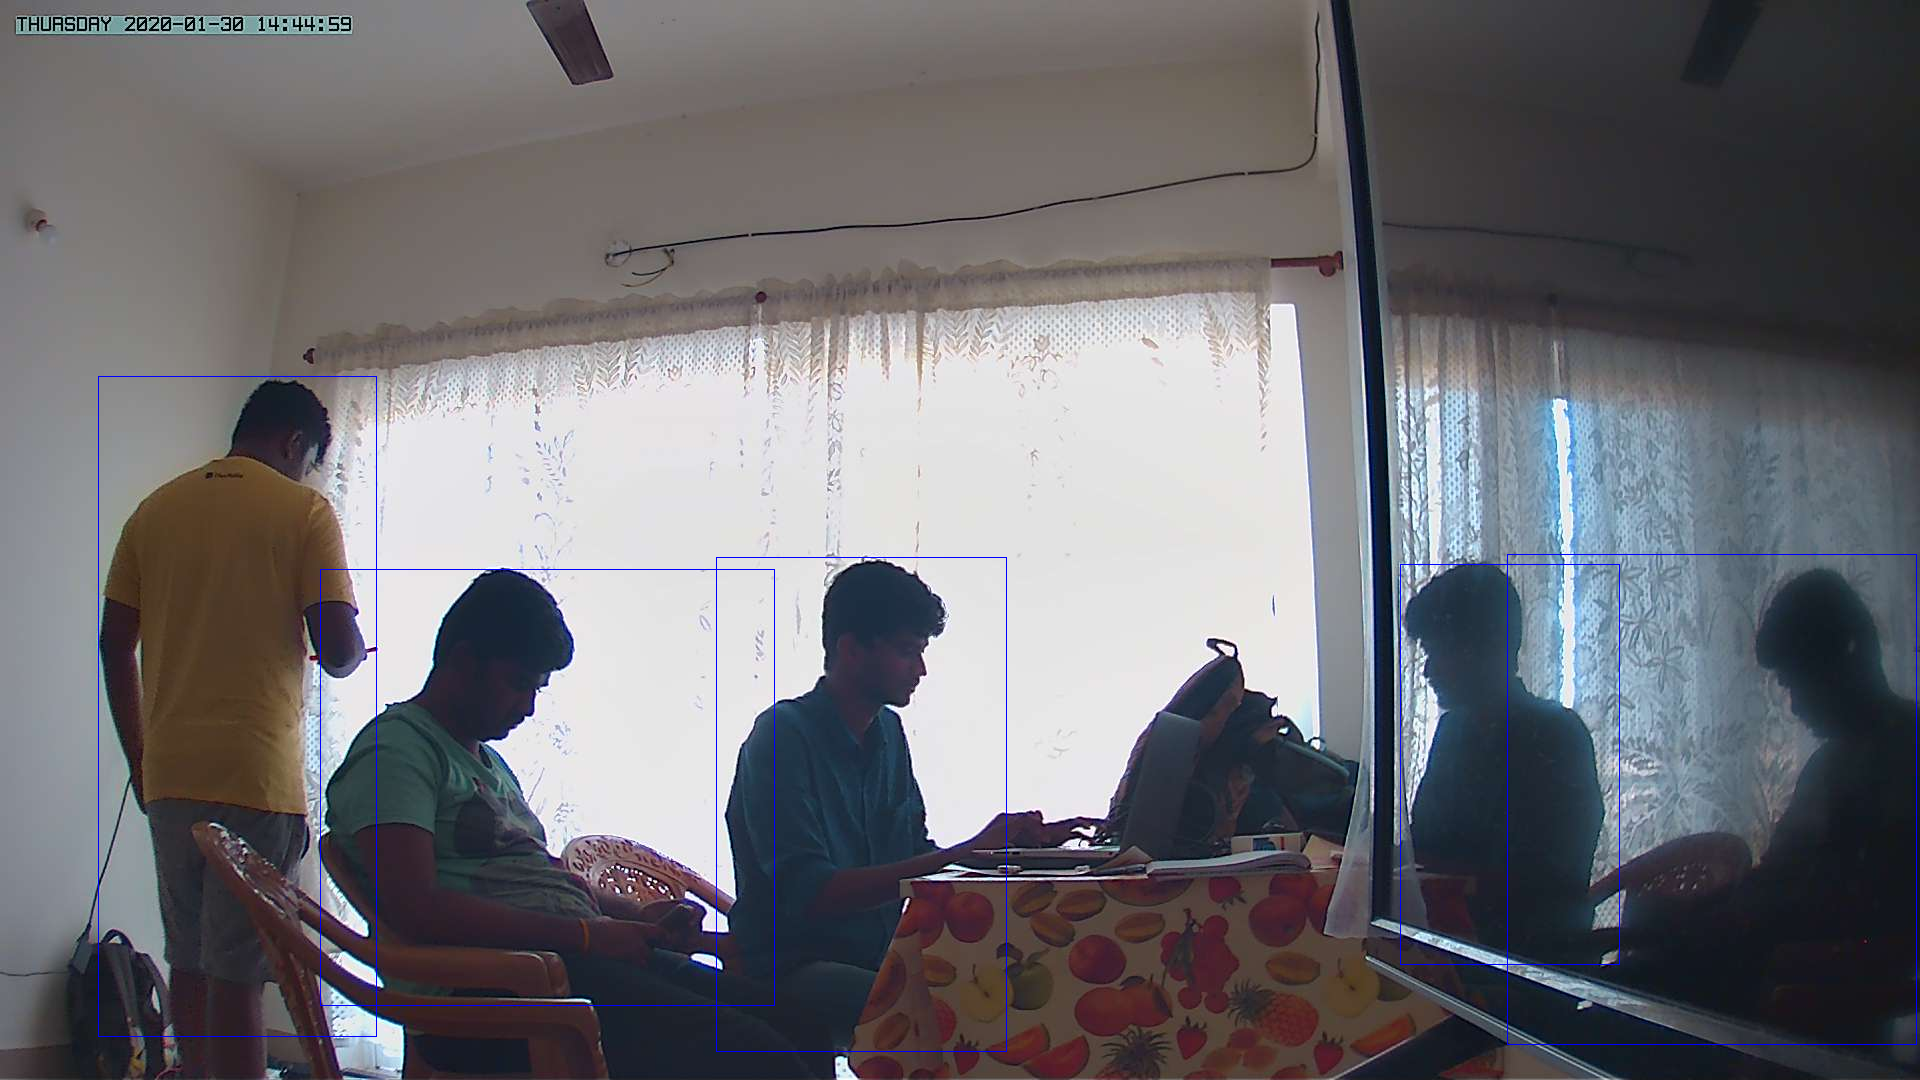
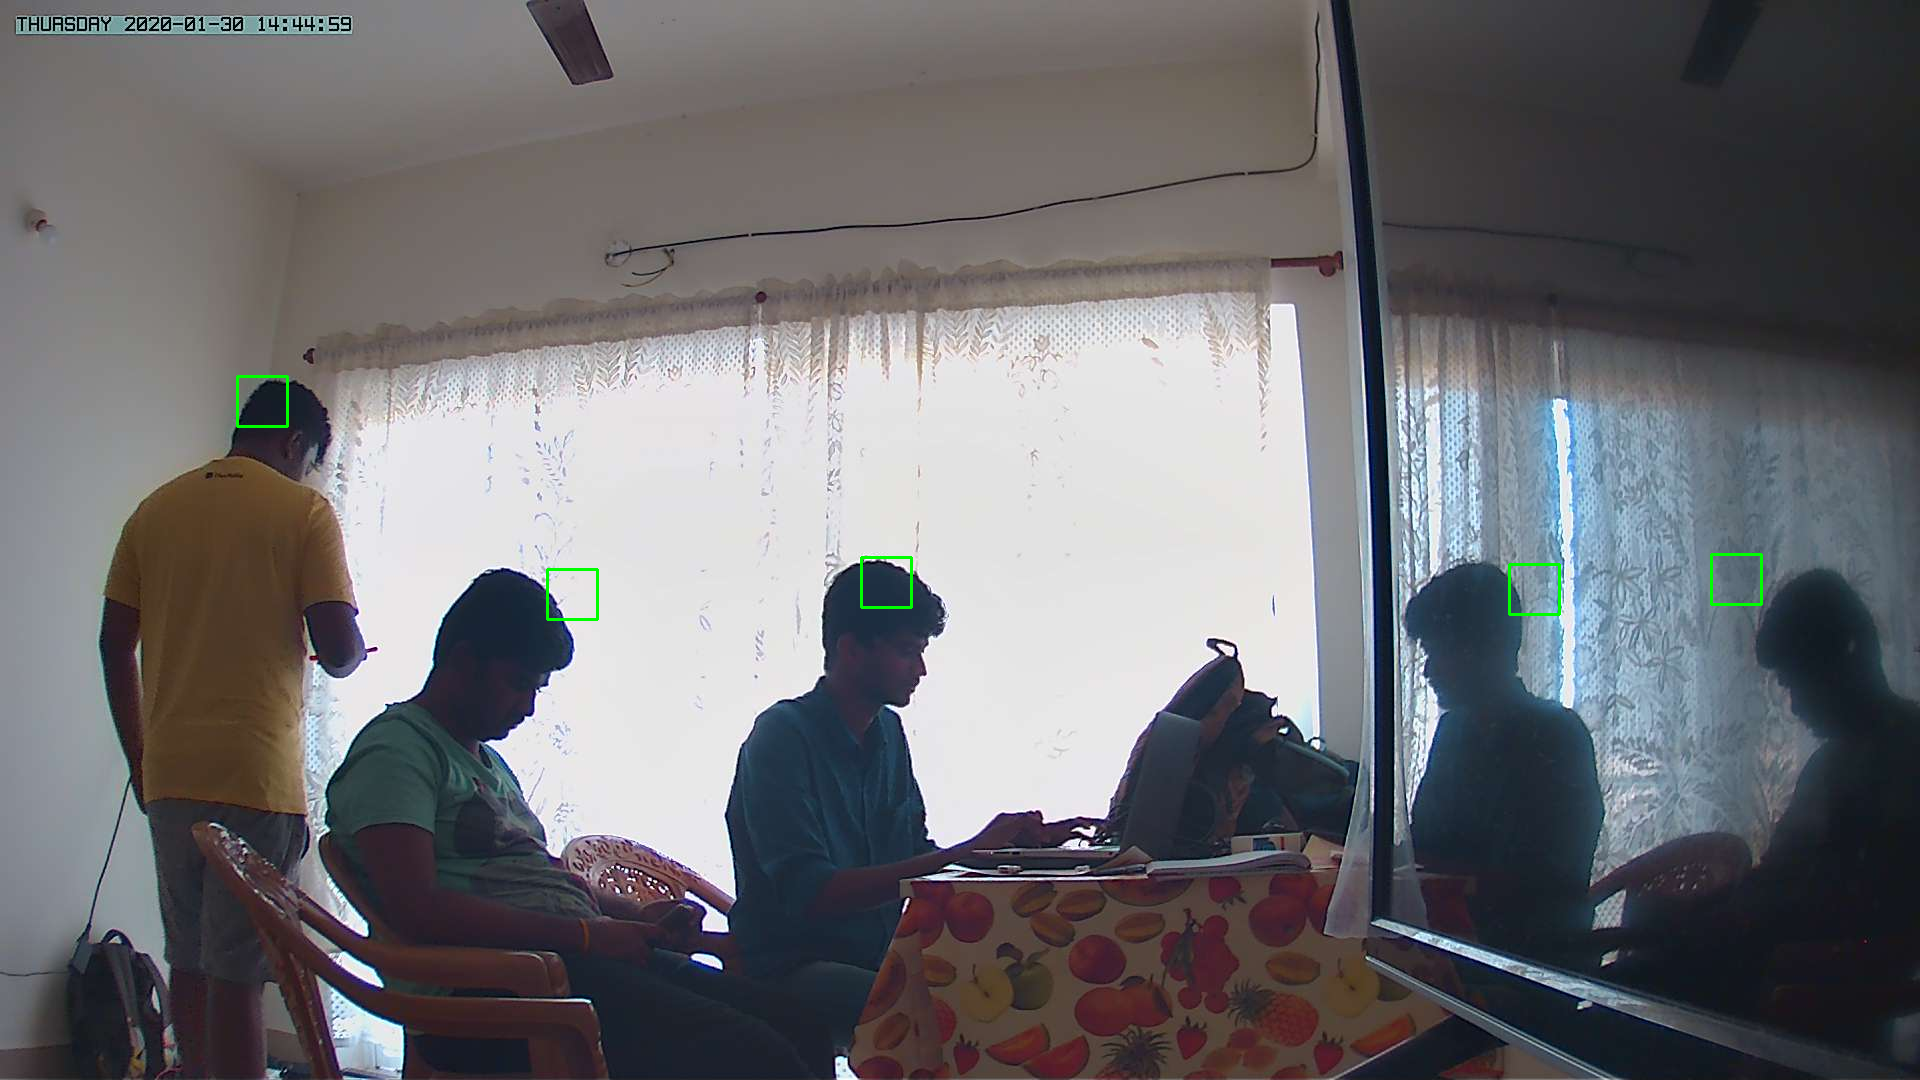
raspberry pie

Changed region(s): [[0.7812, 0.5194, 0.8125, 0.5806], [0.2812, 0.5194, 0.3125, 0.5806], [0.125, 0.3361, 0.1562, 0.3972]]

diff --git a/app.py b/app.py
@@ -134,9 +134,11 @@ def people():
   ax.imshow(im)
   for i in r1['rois']:
     y1, x1, y2, x2 = i
+    x=(x1+x2)//2
+    # y=(y1+y2)//2
     print(x1, y1, x2, y2)
     # rect = patches.Rectangle((x1+(x2 - x1)/2, y1), 50, 50,linewidth=1,edgecolor='r',facecolor='none')
-    image = cv2.rectangle(image,(x1, y1), (x2, y2),(255,0,0),1)
+    image = cv2.rectangle(image,(x, y1), (x+50, y1+50),(0,255,0),2)
     # ax.add_patch(rect)
   (50,100),40,30
   # Add the patch to the Axes
